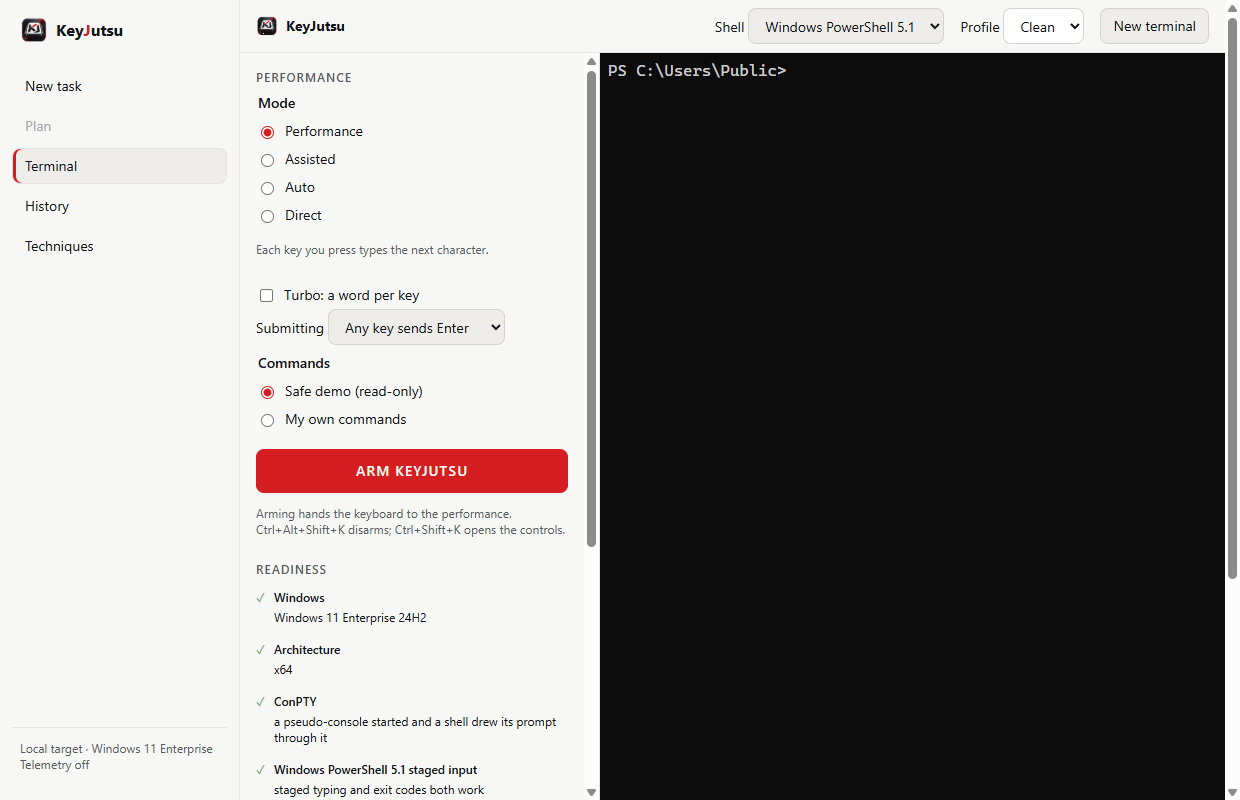
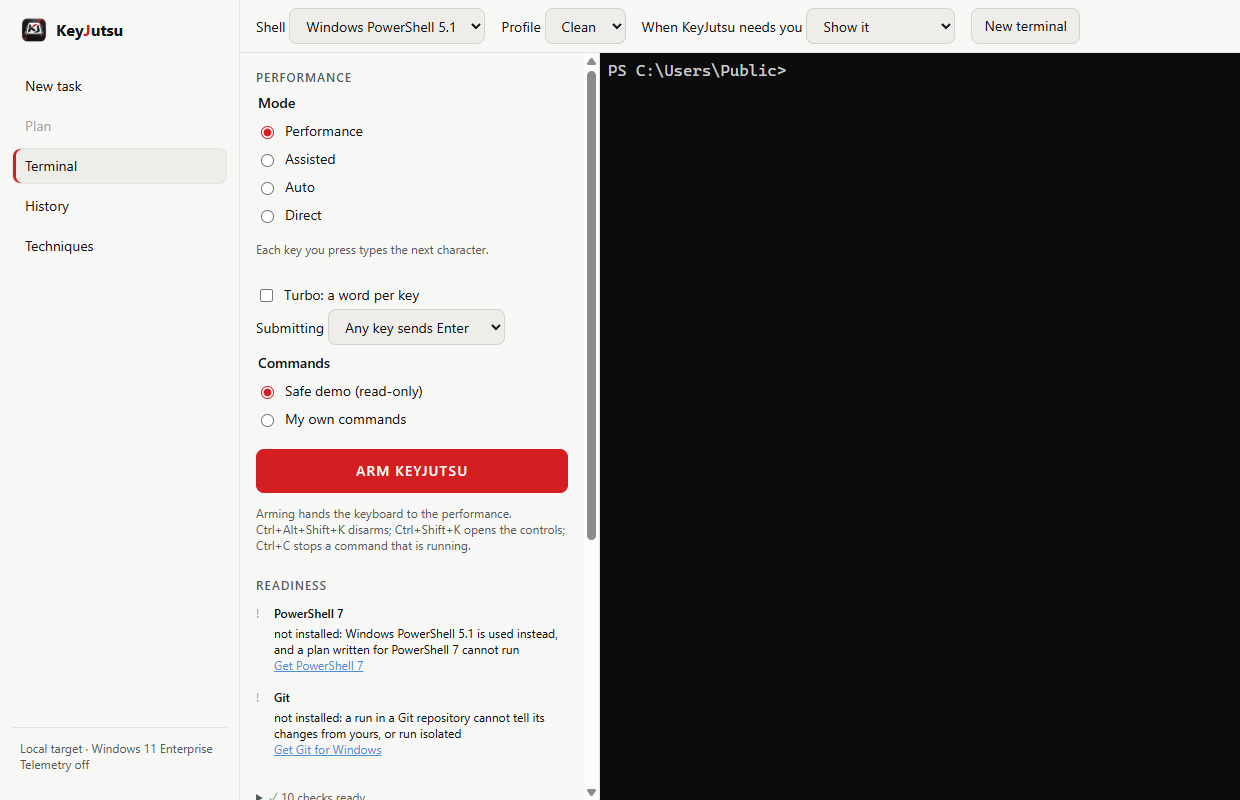
Retake the screenshots of the pages that have changed
History, Techniques, Plan, Terminal and the performance were captured
before the pages were reworked. They are retaken from 0.1.15 in Windows
Sandbox, and the descriptions of History, Techniques, Plan and Terminal
say what each now shows. The first-run screen is kept as it was: the
new capture reports the Sandbox's registered WebView2 version, not the
one the app ran on. New task and the critical action came out identical.

diff --git a/docs/guides/techniques.md b/docs/guides/techniques.md
@@ -43,7 +43,7 @@ In the desktop app, a run that completes offers **Make it a Technique** as
 soon as it finishes, and any completed run in History has it under its steps:
 give it a name, and list any parameters as `name = value`, one per line.
 
-![The History screen. A completed run, Check that Windows Management Instrumentation is running, is selected, with its two steps marked ok. Below them, Make it a Technique: a name, and one parameter, service_name = Winmgmt, then the Make a Technique button.](../images/history.png)
+![The History screen. One run, Check that Windows Management Instrumentation is running, marked Completed, is selected: when it ran, that it took 4 s, and that Codex planned it, then its two steps, each ticked with its time. Below them, Make it a Technique: a name, and one parameter, service_name = Winmgmt, then the Make a Technique button.](../images/history.png)
 
 From the CLI:
 
@@ -69,7 +69,7 @@ since it has worked on no machine KeyJutsu knows.
 Fill in its parameters, and **Make a draft plan**: the draft opens in the Plan screen, not validated,
 for you to validate and approve.
 
-![The Techniques screen. One Technique, revision 1, worked on 1 machine, is selected, with its service_name parameter filled in as Winmgmt and the Make a draft plan button.](../images/techniques.png)
+![The Techniques screen. One Technique, saved today and worked on 1 machine, is selected: revision 1, when it was saved, that Codex planned it, its two steps, its service_name parameter filled in as Winmgmt, and the Make a draft plan button.](../images/techniques.png)
 
 From the CLI:
 

diff --git a/docs/guides/planning.md b/docs/guides/planning.md
@@ -87,7 +87,7 @@ readiness, its risk, and how it would be undone. What needs you comes first;
 the checks that passed are folded into one line, each shown once, since a step
 with many commands passes the same check many times:
 
-![The KeyJutsu Plan screen. Two steps of the example plan, both READY and low risk. The first is selected, showing its command, Get-Service -Name Winmgmt, the evidence behind its readiness, and Edit, Retry step with agent, Move and Remove. At the foot, 2/2 ready, no elevation, and Validate and Approve plan.](../images/plan-workspace.png)
+![The KeyJutsu Plan screen. On the left, the agent, Codex CLI, with nothing that needs you and a reply box, and a reviewer. In the middle, two steps of the example plan, both READY and low risk. The first is selected on the right, showing its command, Get-Service -Name Winmgmt, a note that it was checked without your PowerShell profile, 5 checks passed, and Edit, Move up, Move down and Remove. At the foot, 2/2 ready, no elevation, and Save plan, Validate, where it runs, Record and Approve plan.](../images/plan-workspace.png)
 
 From the CLI:
 

diff --git a/README.md b/README.md
@@ -82,7 +82,7 @@ keyjutsu plan validate spooler.json
 keyjutsu plan approve spooler.json --out spooler.approved.json
 ```
 
-![The KeyJutsu Plan screen. Two steps of the example plan, both READY and low risk. The first is selected, showing its command, Get-Service -Name Winmgmt, the evidence behind its readiness, and Edit, Retry step with agent, Move and Remove. At the foot, 2/2 ready, no elevation, and Validate and Approve plan.](docs/images/plan-workspace.png)
+![The KeyJutsu Plan screen. On the left, the agent, Codex CLI, with nothing that needs you and a reply box, and a reviewer. In the middle, two steps of the example plan, both READY and low risk. The first is selected on the right, showing its command, Get-Service -Name Winmgmt, a note that it was checked without your PowerShell profile, 5 checks passed, and Edit, Move up, Move down and Remove. At the foot, 2/2 ready, no elevation, and Save plan, Validate, where it runs, Record and Approve plan.](docs/images/plan-workspace.png)
 
 ### A run that checks each step, and stops at the first failure
 

diff --git a/docs/guides/first-performance.md b/docs/guides/first-performance.md
@@ -28,7 +28,7 @@ In the desktop app, the first screen has **Try the safe demo**. It stages
 the same three commands; open **Terminal**, choose the **Clean** profile, and
 press **Arm KeyJutsu** to begin:
 
-![The Terminal screen with the safe demo ready. On the left, the mode (Performance selected), Turbo, what submits a command, the demo's read-only commands and the red Arm KeyJutsu button. On the right, Windows PowerShell with the Clean profile, waiting at its prompt.](../images/terminal.png)
+![The Terminal screen with the safe demo ready. On the left, the mode (Performance selected), Turbo, what submits a command, the demo's read-only commands and the red Arm KeyJutsu button, then Readiness, naming PowerShell 7 and Git as not installed. On the right, Windows PowerShell with the Clean profile, waiting at its prompt.](../images/terminal.png)
 
 ### 2. Mash the keyboard
 
